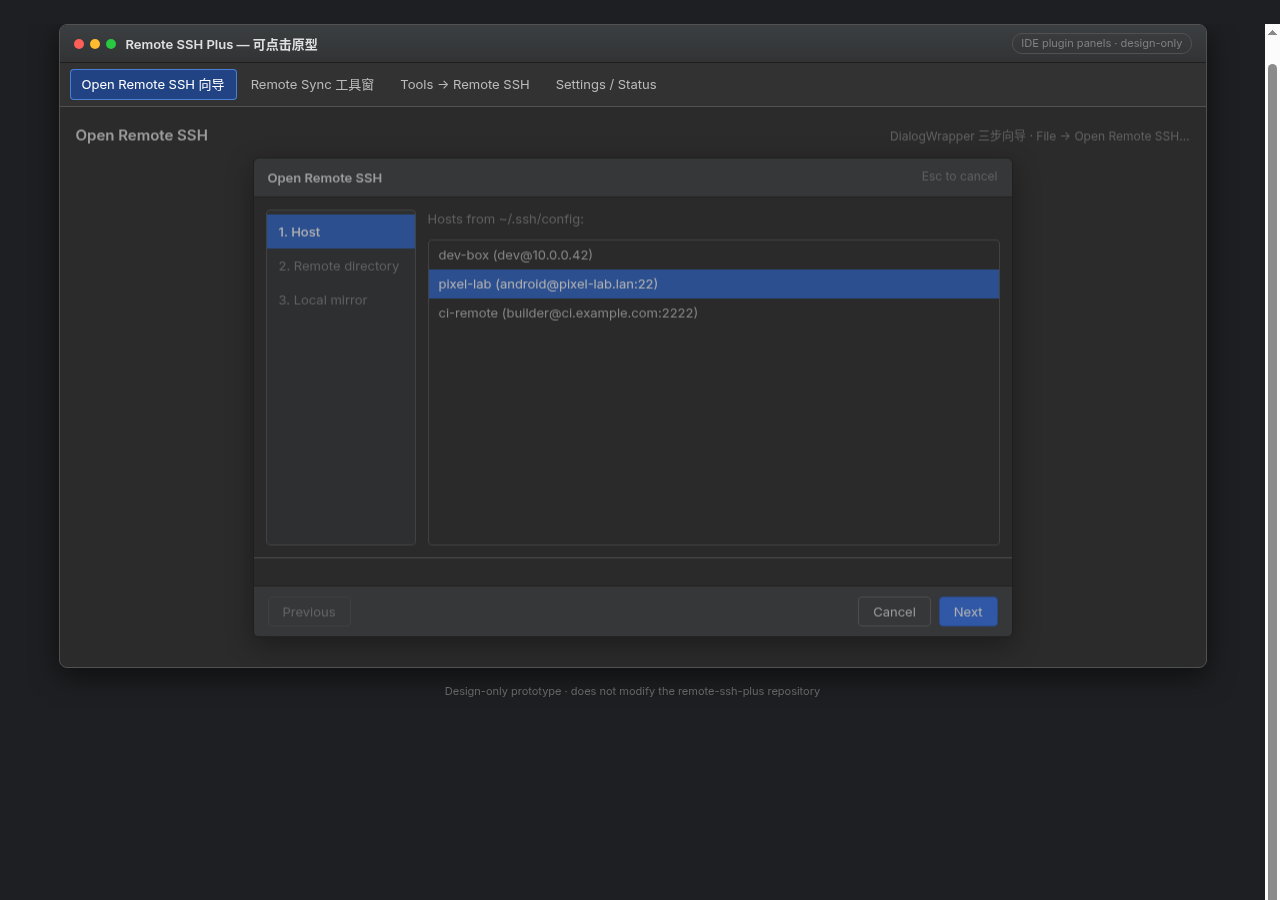
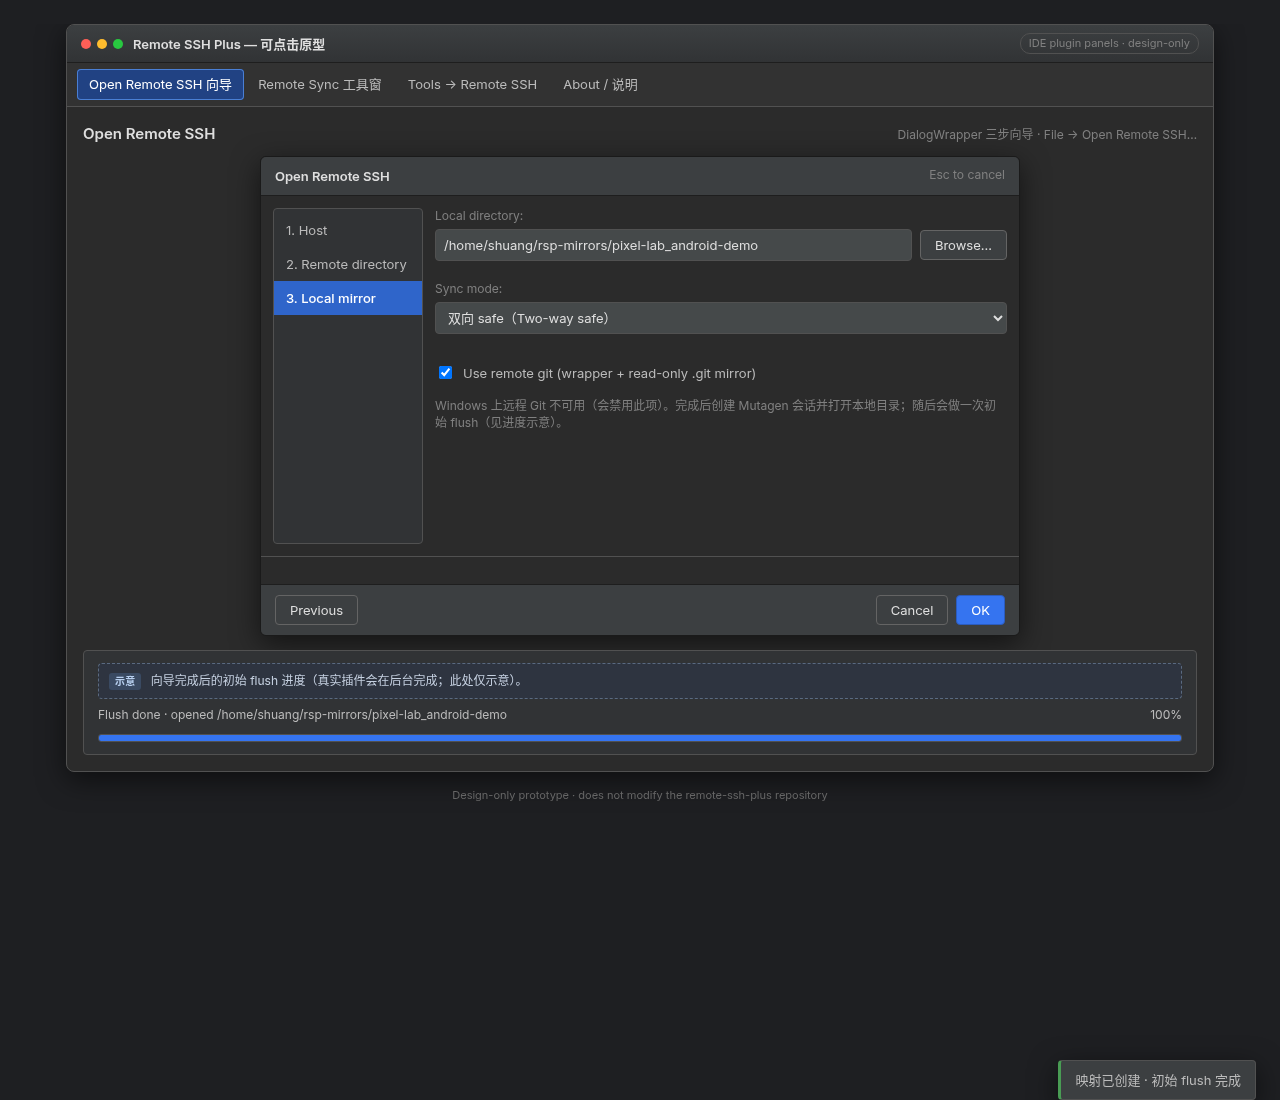
Screenshots + shot= modes for design-review panels
Refresh 01-wizard (flush sketch), 02-sync (Resume/Recreate), 03-tools
(愿景 APK pull), 04-about; rename away from 04-status. Add ?shot=
helpers for headless captures.

diff --git a/app.js b/app.js
@@ -580,7 +580,8 @@ android@pixel-lab:~/android-demo$ ▌</div>
 
   async function demoGradle(area) {
     const sess = primarySession();
-    const paused = !!(sess && sess.paused && !/missing/i.test(sess.status));
+    const shotGradle = new URLSearchParams(location.search).get("shot") === "gradle";
+    const paused = !shotGradle && !!(sess && sess.paused && !/missing/i.test(sess.status));
 
     if (paused) {
       const go = await showModal({
@@ -601,20 +602,23 @@ android@pixel-lab:~/android-demo$ ▌</div>
       }
     }
 
-    const ans = await showModal({
-      title: "Remote Gradle",
-      body:
-        "Gradle tasks/arguments to run on pixel-lab:\n\n" +
-        "Before build, the plugin flushes the mutagen session so remote sees latest local sources" +
-        (paused ? " (session was paused — flush may be skipped / remote may be stale)." : "."),
-      input: { value: ":app:assembleDebug" },
-      buttons: [
-        { id: "cancel", label: "Cancel" },
-        { id: "ok", label: "OK", primary: true },
-      ],
-    });
-    if (!ans || ans === "cancel" || ans.id === "cancel") return;
-    const taskName = ((ans && ans.value) || ":app:assembleDebug").trim() || ":app:assembleDebug";
+    let taskName = ":app:assembleDebug";
+    if (!shotGradle) {
+      const ans = await showModal({
+        title: "Remote Gradle",
+        body:
+          "Gradle tasks/arguments to run on pixel-lab:\n\n" +
+          "Before build, the plugin flushes the mutagen session so remote sees latest local sources" +
+          (paused ? " (session was paused — flush may be skipped / remote may be stale)." : "."),
+        input: { value: ":app:assembleDebug" },
+        buttons: [
+          { id: "cancel", label: "Cancel" },
+          { id: "ok", label: "OK", primary: true },
+        ],
+      });
+      if (!ans || ans === "cancel" || ans.id === "cancel") return;
+      taskName = ((ans && ans.value) || ":app:assembleDebug").trim() || ":app:assembleDebug";
+    }
 
     area.innerHTML = `
       <div style="display:flex;align-items:center;gap:8px;margin:0 0 8px;flex-wrap:wrap">
@@ -716,10 +720,20 @@ android@pixel-lab:~/android-demo$ ▌</div>
         pullCancel = true;
         $("#apkProgress").style.display = "none";
       };
+      const shotMode = new URLSearchParams(location.search).get("shot") === "gradle";
       for (let p = 0; p <= 100; p += 8) {
         if (pullCancel || cancelled) break;
         bar.style.width = p + "%";
+        if (shotMode && p >= 48) {
+          await sleep(8000); // hold for screenshot
+          break;
+        }
         await sleep(80);
+      }
+      if (shotMode) {
+        running = false;
+        $("#stopGradle").disabled = true;
+        return; // leave vision banner + progress visible
       }
       $("#stopGradle").disabled = true;
       running = false;
@@ -909,5 +923,28 @@ android@pixel-lab:~/android-demo$ ▌</div>
   showWizStep(0);
   renderSessions();
   updateAdbMenu();
-  showPanel(location.hash.replace(/^#/, "") || "wizard");
+  const params = new URLSearchParams(location.search);
+  const shot = params.get("shot");
+  showPanel(location.hash.replace(/^#/, "") || (shot === "about" ? "about" : "wizard"));
+  if (shot === "gradle") {
+    showPanel("tools");
+    // Force non-paused primary so we skip pause modal for clean shot
+    const ps = primarySession();
+    if (ps) { ps.paused = false; ps.status = "Watching"; }
+    setTimeout(() => runTool("gradle"), 200);
+  } else if (shot === "install") {
+    showPanel("tools");
+    setTimeout(() => runTool("install"), 200);
+  } else if (shot === "wizard-flush") {
+    showPanel("wizard");
+    showWizStep(2);
+    $("#localPath").value = "/home/shuang/rsp-mirrors/pixel-lab_android-demo";
+    selectedHost = HOSTS[1];
+    cwd = "/home/android/android-demo";
+    setTimeout(() => showPostWizardFlush(
+      "/home/shuang/rsp-mirrors/pixel-lab_android-demo",
+      "pixel-lab",
+      "/home/android/android-demo"
+    ), 100);
+  }
 })();
